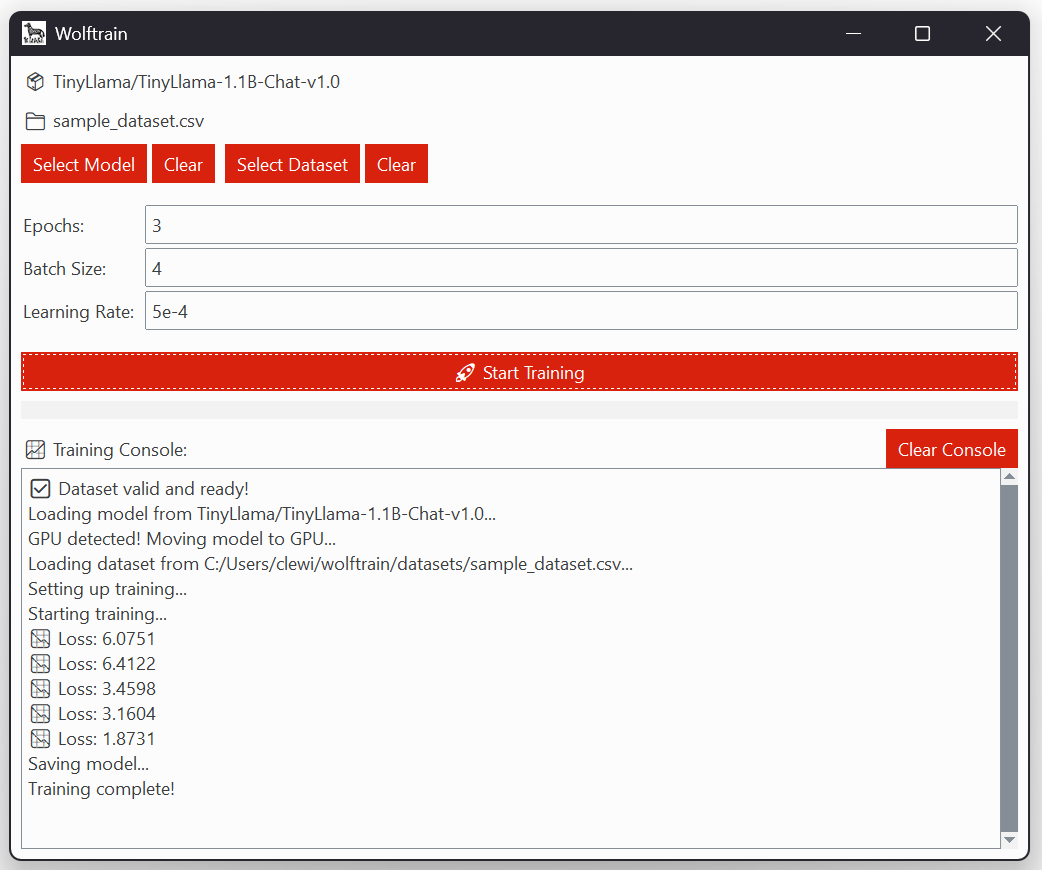
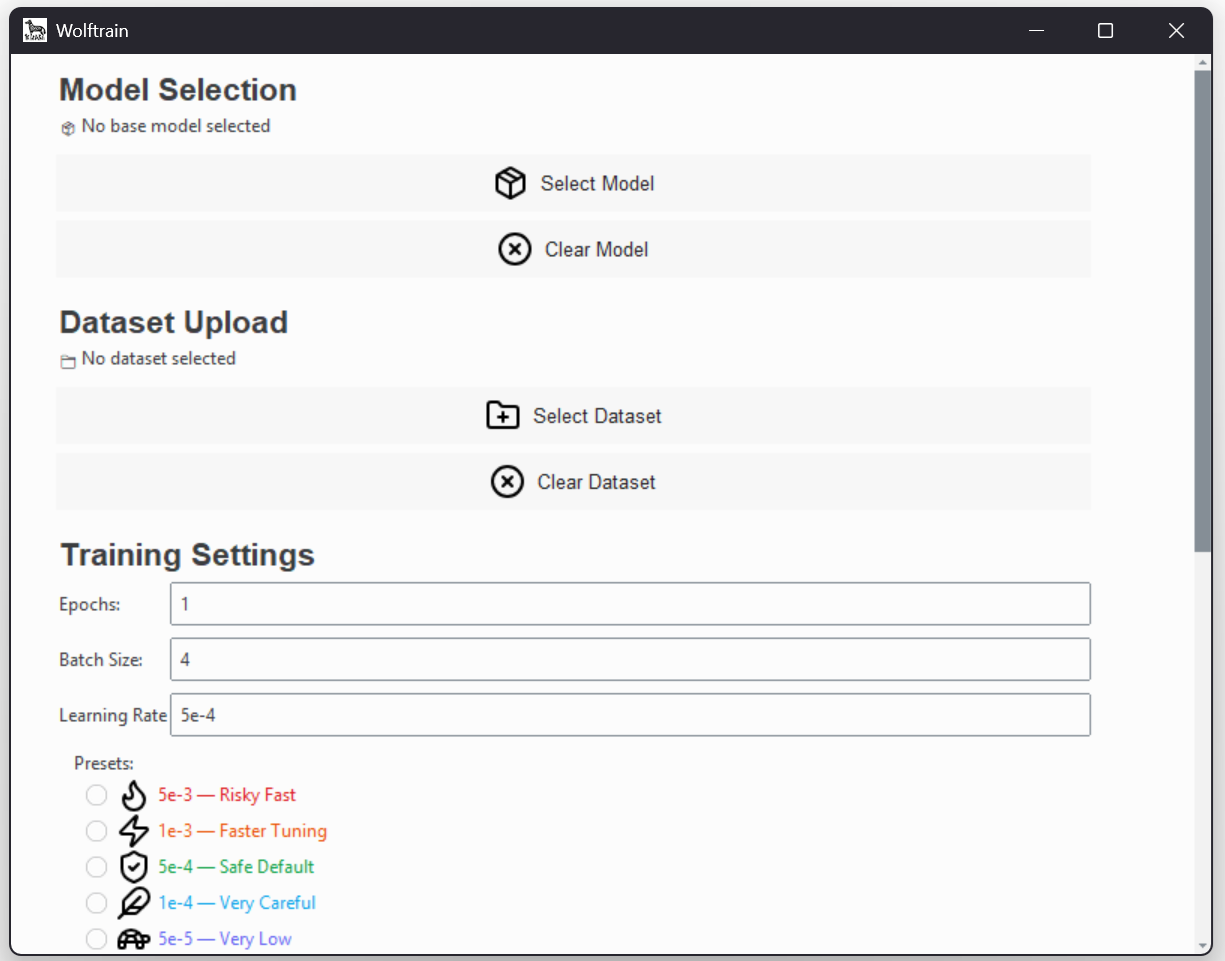
Update UI
Updated UI with intuitive Training Rate radio buttons.

Changed region(s): [[0.0, 0.0, 1.0, 1.0]]

diff --git a/ui/app_frame.py b/ui/app_frame.py
@@ -4,7 +4,7 @@ import csv
 import tkinter as tk
 from tkinter import filedialog, messagebox, Toplevel, Text, PhotoImage
 from tkinterdnd2 import DND_FILES
-from ttkbootstrap import Frame, Label, Button, Entry, Scrollbar
+from ttkbootstrap import Frame, Label, Button, Entry, Scrollbar, Radiobutton
 from ttkbootstrap.constants import *
 from controller import (
     set_base_model,
@@ -43,7 +43,14 @@ class AppFrame(Frame):
             "dataset": self.icon("icon-dataset-select.png"),
             "dataset_clear": self.icon("icon-dataset-clear.png"),
             "train": self.icon("icon-train-start.png"),
-            "clear_console": self.icon("icon-console-clear.png")
+            "clear_console": self.icon("icon-console-clear.png"),
+            # Preset Icons
+            "lr_risky": self.icon("icon-lr-flame.png"),
+            "lr_fast": self.icon("icon-lr-zap.png"),
+            "lr_safe": self.icon("icon-lr-safe.png"),
+            "lr_careful": self.icon("icon-lr-careful.png"),
+            "lr_low": self.icon("icon-lr-low.png"),
+            "lr_nano": self.icon("icon-lr-nano.png")
         }
 
         content = self.scrollable_frame
@@ -77,13 +84,29 @@ class AppFrame(Frame):
         self.batch_size_entry = self._create_labeled_entry(content, "Batch Size:", "4")
         self.learning_rate_entry = self._create_labeled_entry(content, "Learning Rate:", "5e-4")
 
+        Label(content, text="Presets:").pack(anchor="w", padx=20, pady=(4, 0))
+        self.lr_preset_var = tk.StringVar()
+        self.lr_presets = {
+            "5e-3 — Risky Fast": ("5e-3", "Red.TRadiobutton", self.icons["lr_risky"]),
+            "1e-3 — Faster Tuning": ("1e-3", "Orange.TRadiobutton", self.icons["lr_fast"]),
+            "5e-4 — Safe Default": ("5e-4", "Green.TRadiobutton", self.icons["lr_safe"]),
+            "1e-4 — Very Careful": ("1e-4", "Blue.TRadiobutton", self.icons["lr_careful"]),
+            "5e-5 — Very Low": ("5e-5", "Indigo.TRadiobutton", self.icons["lr_low"]),
+            "1e-5 — Nano Steps": ("1e-5", "Violet.TRadiobutton", self.icons["lr_nano"])
+        }
+
+        for label, (value, style, icon) in self.lr_presets.items():
+            rb = Radiobutton(content, text=label, variable=self.lr_preset_var,
+                            value=value, style=style, image=icon, compound="left",
+                            command=lambda v=value: self.learning_rate_entry.delete(0, "end") or self.learning_rate_entry.insert(0, v))
+            rb.pack(anchor="w", padx=30)
+
         Button(content, image=self.icons["train"], text=" Start Training", compound="left",
                command=self.start_training, style="Hover.TButton").pack(fill=X, padx=10, pady=(10, 16))
 
         self.progress_bar = tk.ttk.Progressbar(content, maximum=100)
         self.progress_bar.pack(fill=X, padx=10, pady=(0, 16))
 
-        # === Console Section ===
         Label(content, text="Training Console", font=("Arial", 16, "bold")).pack(anchor="w", padx=10)
 
         Button(content, image=self.icons["clear_console"], text=" Clear Console", compound="left",

diff --git a/main.py b/main.py
@@ -1,17 +1,20 @@
 # main.py
-from tkinterdnd2 import TkinterDnD  # New import
+from tkinterdnd2 import TkinterDnD
 import ttkbootstrap as ttkb
 from ttkbootstrap.constants import *
 import tkinter as tk
 from ui.app_frame import AppFrame
-from ui.styles import apply_hover_style
+from ui.styles import apply_hover_style, apply_radio_styles  # Added radio styles
 
 def main():
-    # Use TkinterDnD-capable root window
     root = TkinterDnD.Tk()
     style = ttkb.Style(theme="simplex")
+
+    # Apply both hover button and radio button styles
     apply_hover_style(style)
-    style.master = root  # Link ttkbootstrap theme to the root window
+    apply_radio_styles(style)
+
+    style.master = root  # Link theme to the main root
 
     root.title("Wolftrain")
     root.geometry("800x600")
@@ -20,7 +23,7 @@ def main():
     try:
         root.iconphoto(False, tk.PhotoImage(file="assets/wolftrain-icon.png"))
     except:
-        pass  # fallback silently if no icon found
+        pass  # Fallback silently if icon is missing
 
     frame = AppFrame(root)
     frame.pack(fill=BOTH, expand=YES)

diff --git a/ui/styles.py b/ui/styles.py
@@ -13,3 +13,11 @@ def apply_hover_style(style: Style):
         background=[("active", "#b91c1c")],  # Deep red
         foreground=[("active", "#ffffff")]
     )
+
+def apply_radio_styles(style: Style):
+    style.configure("Red.TRadiobutton", foreground="#dc2626")      # 🔥 High
+    style.configure("Orange.TRadiobutton", foreground="#ea580c")   # ⚡ Medium
+    style.configure("Green.TRadiobutton", foreground="#16a34a")    # ✅ Safe Default
+    style.configure("Blue.TRadiobutton", foreground="#0ea5e9")     # 🧘 Very Careful
+    style.configure("Indigo.TRadiobutton", foreground="#6366f1")   # 🐢 Very Low
+    style.configure("Violet.TRadiobutton", foreground="#9333ea")   # 🧊 Nano Steps

diff --git a/README.md b/README.md
@@ -3,7 +3,7 @@
 **Local LoRA Fine-Tuning, Evolved.**  
 Part of the [Wolflow](https://wolflow.ai) ecosystem • Built by [Christopher Messina](https://github.com/CLewisMessina)
 
-> Now with a scrollable, icon-based interface and GPU acceleration support.
+> Now with a scrollable, icon-based interface, rainbow-coded learning rate presets, and GPU acceleration support.
 
 ---
 
@@ -23,9 +23,10 @@ Built for privacy, speed, and control, it bridges the gap between raw data and c
 - 🔥 **GPU acceleration** – Automatic CUDA detection and utilization
 - 📊 **Multiple dataset formats** – Support for `.txt` and `.csv` training files
 - ✂ **LoRA adaptation** – Efficient parameter updates with minimal resources
+- 🎛 **Learning rate presets** – Visual, color-coded suggestions for tuning safety and speed
 - 🔍 **Live training metrics** – Real-time loss tracking and progress updates
 - 🧩 **Drag-and-drop support** – Drop your datasets directly into the app
-- 🖼 **Icon-based controls** – Red-hover buttons and tool-aligned layout
+- 🖼 **Icon-based controls** – Lucide icons with red-hover style buttons
 - 🧭 **Scrollable layout** – Modern structure for responsive UIs
 - 📈 **Model comparison tool** – Compare base vs. fine-tuned outputs
 - ❌ **Private by design** – Fully local processing with no cloud dependencies
@@ -82,7 +83,7 @@ python main.py
 
 1. **Select Model** – Choose a base Hugging Face model to fine-tune
 2. **Select Dataset** – Upload your training data (TXT or CSV format)
-3. **Configure** – Set epochs, batch size, and learning rate
+3. **Configure** – Set epochs, batch size, and learning rate (or choose a preset)
 4. **Train** – Launch training with live progress updates
 5. **Test** – Use comparison tools to evaluate your fine-tuned model
 
@@ -117,6 +118,7 @@ python main.py
 - [x] Live training metrics
 - [x] GPU acceleration
 - [x] Scrollable interface with icons and drag-and-drop
+- [x] Learning rate presets with visual styling
 - [ ] CSV column selector for multi-column datasets
 - [ ] Hugging Face model browser (search + download from UI)
 - [ ] Adapter-only saving for smaller outputs

diff --git a/CHANGELOG.md b/CHANGELOG.md
@@ -1,19 +1,17 @@
 # 🐺 Wolftrain Changelog
 
-## [0.3.0-beta] — 2025-05-08
+## [0.3.1-beta] — 2025-05-08
 
 ### Added
-- Scrollable, canvas-based layout with mousewheel support
-- Red-hover button styling via shared `Hover.TButton` style
-- Icon-based buttons using Lucide-style PNGs
-- Drag-and-drop support for datasets (.txt and .csv)
-- Section headers for clearer UX structure
+- Learning Rate Preset system with beginner-friendly options
+- Rainbow-coded `Radiobuttons` with Lucide icons (e.g., flame, shield, zap)
+- Auto-fill behavior to update the learning rate field when a preset is clicked
 
 ### Changed
-- Replaced static frame layout with dynamic, responsive UI
-- Refactored `main.py` to initialize ttkbootstrap + drag-and-drop root window
-- Reorganized buttons and labels to match Wolflow UI standards
+- Replaced emoji-based labels with icon + text layout for better alignment and visual clarity
+- Tightened UI spacing and layout in the Training Settings section
 
+---
 
 ## [0.2.0-beta] — 2025-04-29
 
